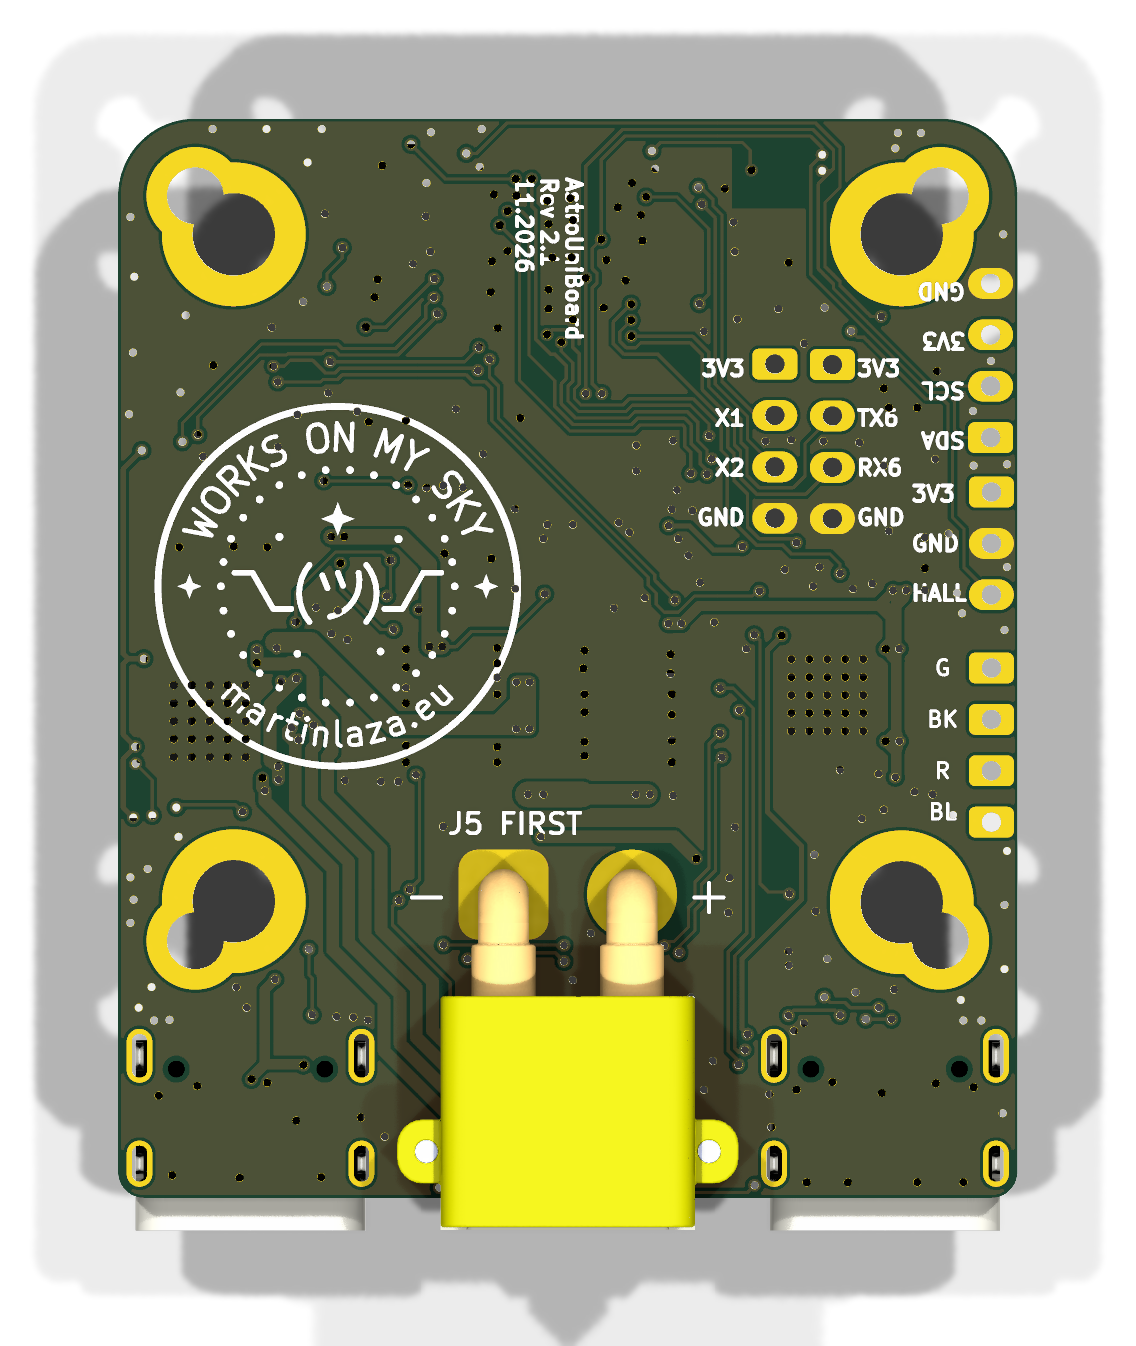
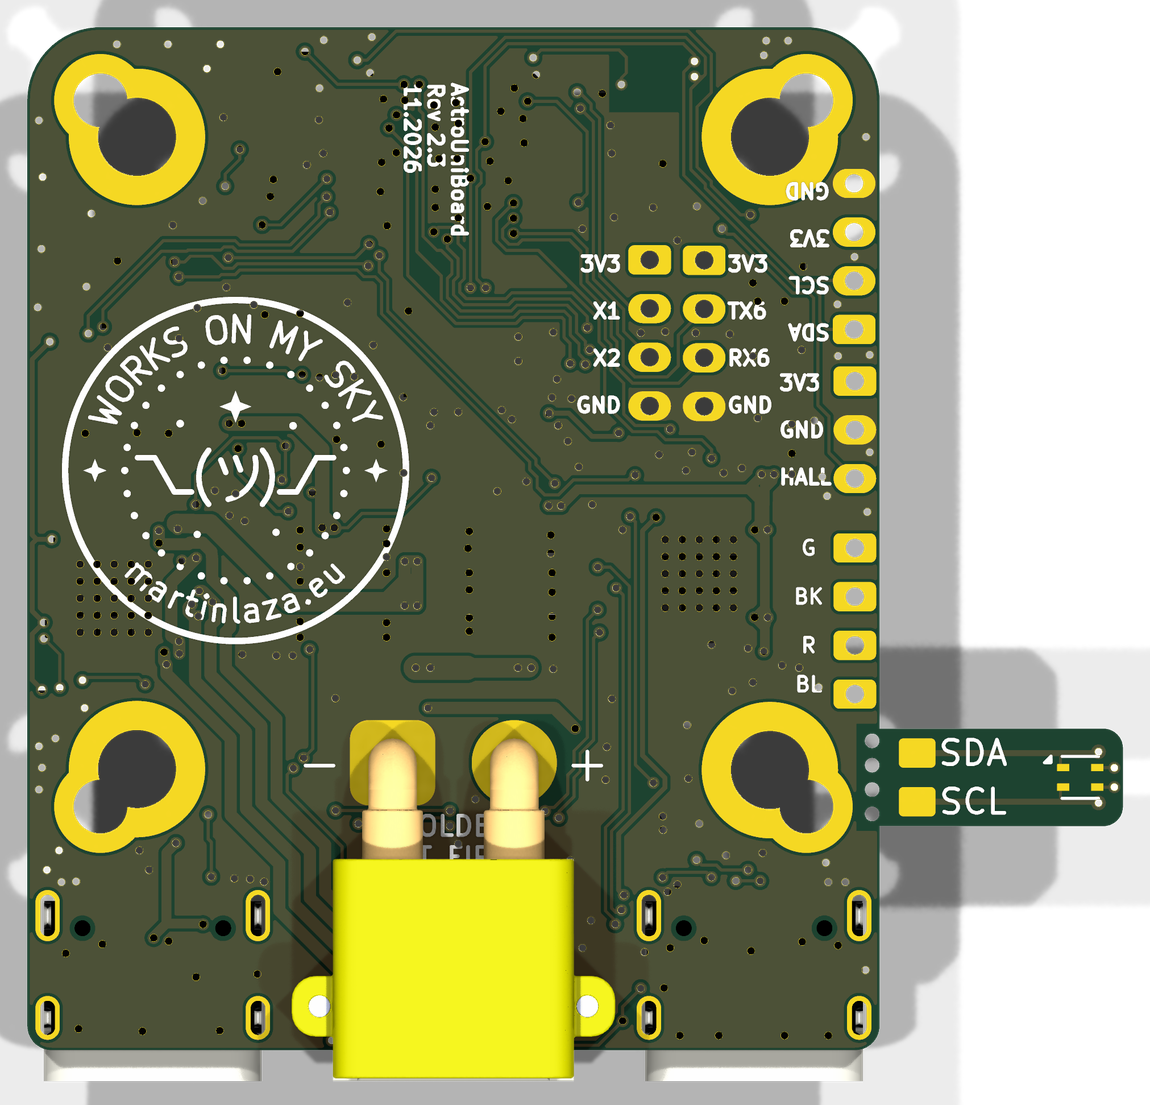
docs: rev 2.3 board renders
Re-rendered top, bottom and both 3D views from the rev 2.3 board (snap-off sensor tab, DNP sockets
left out) with the fixed render.py; README alt texts say rev 2.3.

diff --git a/README.md b/README.md
@@ -6,8 +6,8 @@ It is built to sit on the moving part of the train and rotate with the camera, s
 cable leave the rotating side.
 
 <p align="center">
-  <img src="docs/img/board/top-3d.png" width="48%" alt="AstroUniBoard rev 2.1, top side">
-  <img src="docs/img/board/bottom-3d.png" width="48%" alt="AstroUniBoard rev 2.1, bottom side">
+  <img src="docs/img/board/top-3d.png" width="48%" alt="AstroUniBoard rev 2.3, top side">
+  <img src="docs/img/board/bottom-3d.png" width="48%" alt="AstroUniBoard rev 2.3, bottom side">
 </p>
 
 | | |
@@ -21,8 +21,7 @@ cable leave the rotating side.
 | Power | 12 V on an XT30 (motors + 5.3 V buck). Logic also runs from USB alone, without motors |
 | Licences | firmware and software GPL-3.0, hardware CERN-OHL-S-2.0 |
 
-Renders are from KiCad and show the board as JLC delivers it (DNP sockets left out); they still show rev 2.1,
-without the snap-off sensor tab.
+Renders are from KiCad and show the board as JLC delivers it (DNP sockets left out).
 Schematic: [docs/astrouniboard-rev2.3-schematic.pdf](docs/astrouniboard-rev2.3-schematic.pdf).
 
 ---
